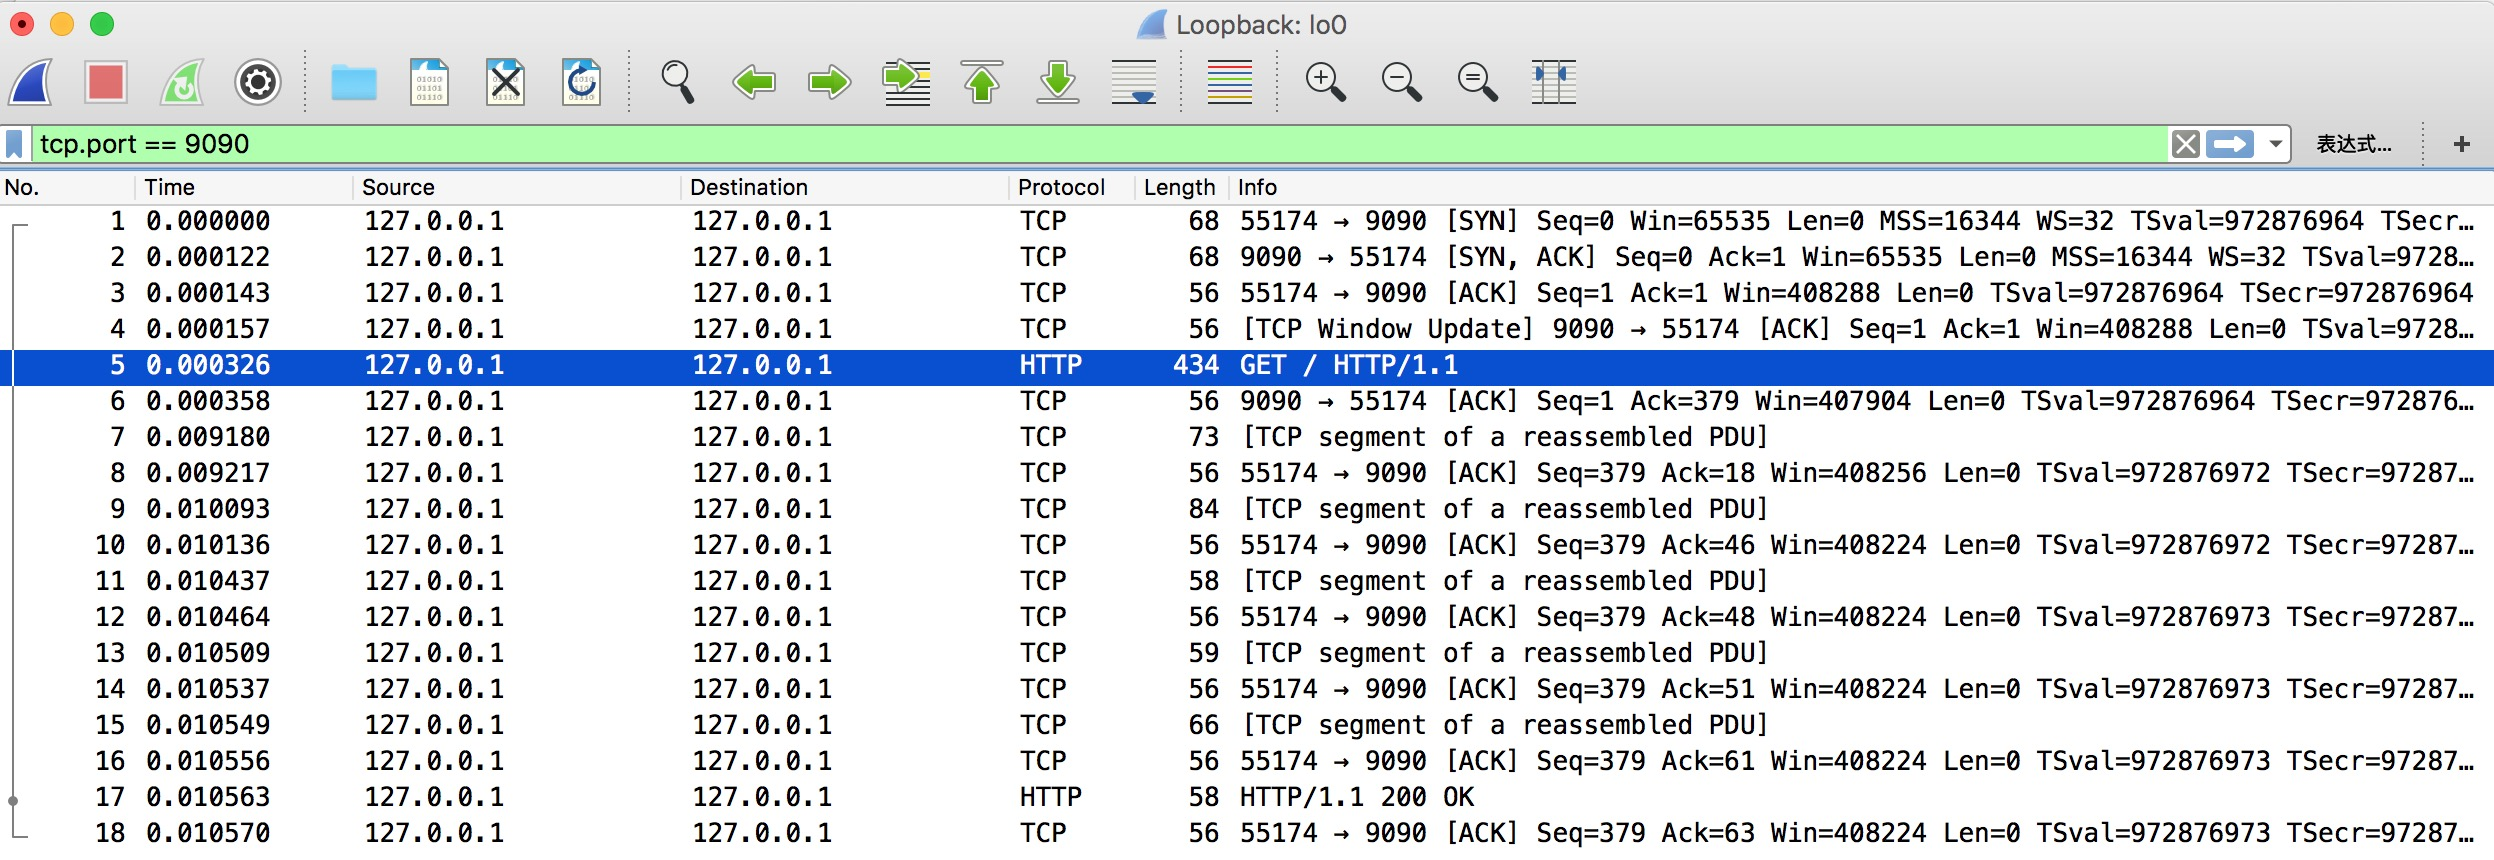
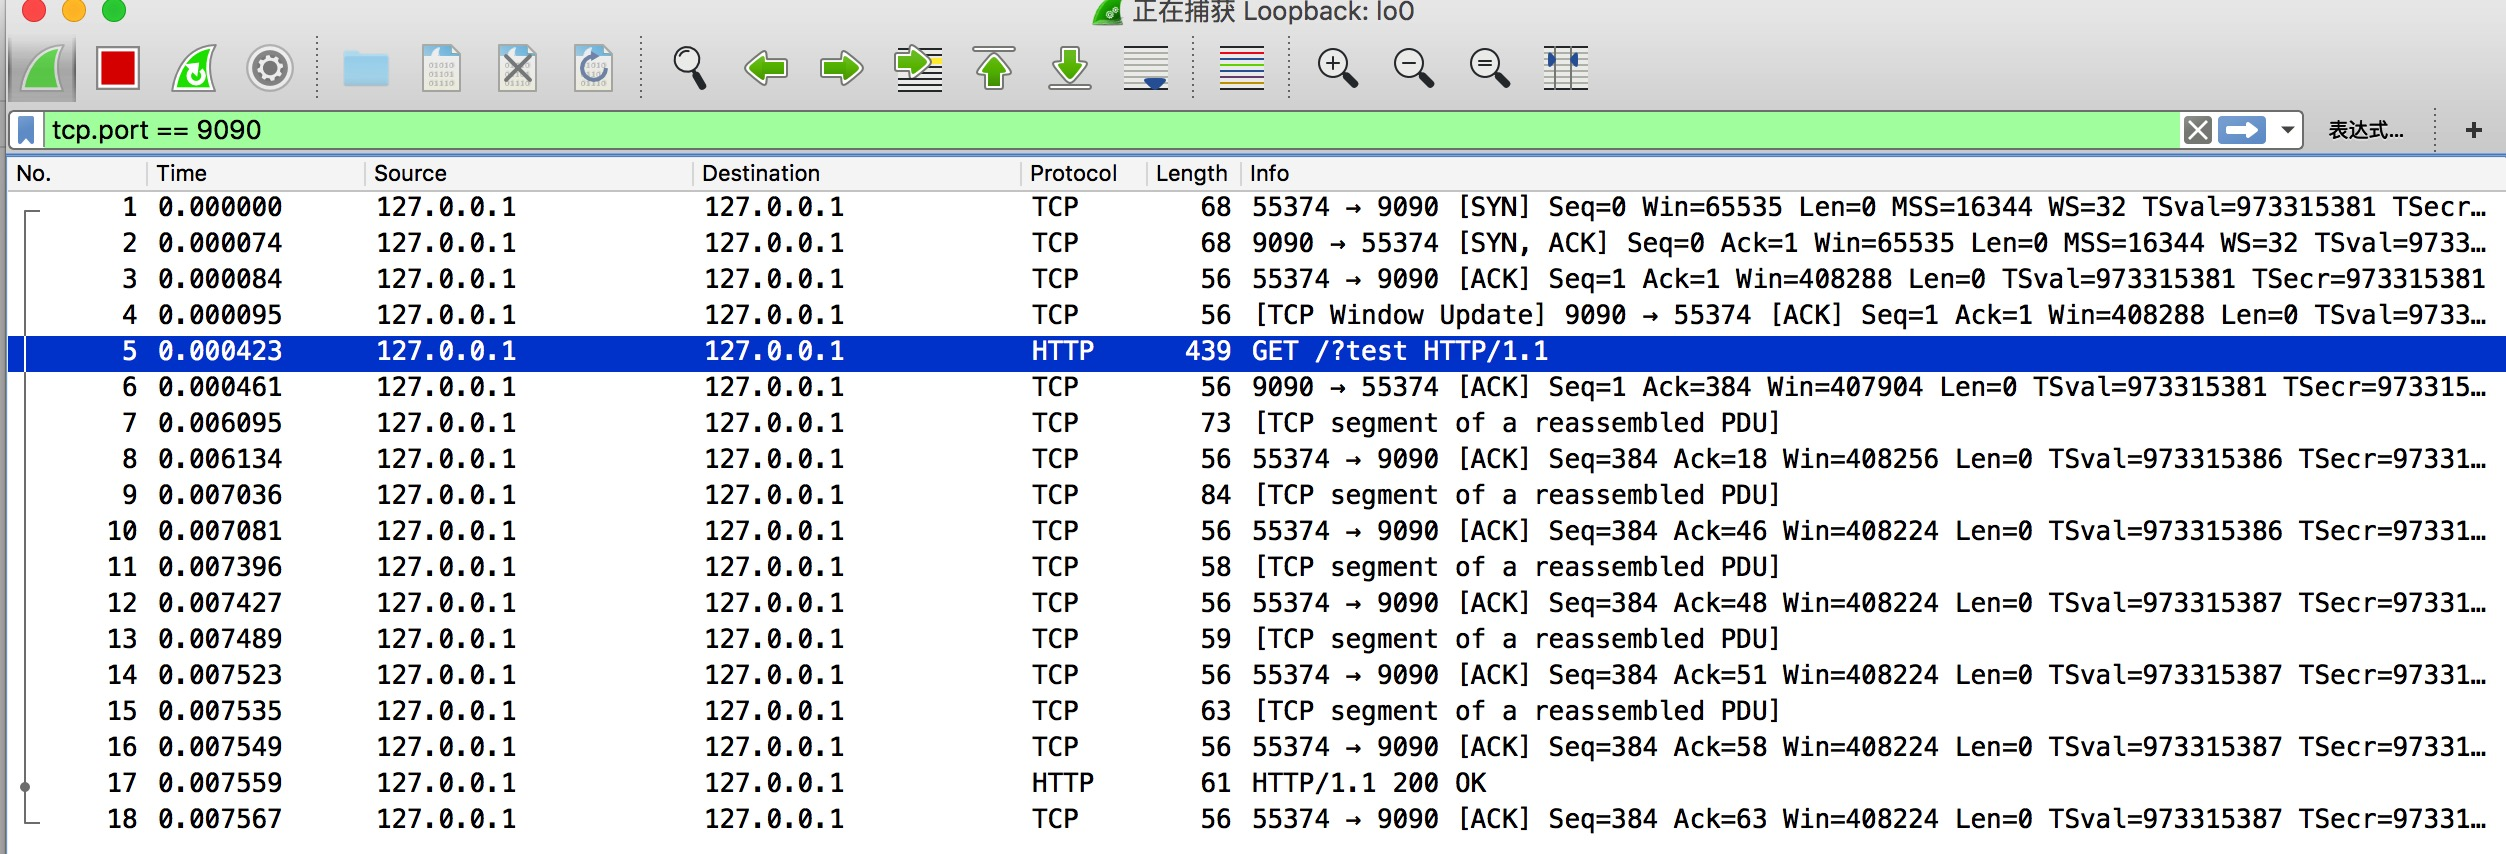
Creates assets/get-1.png
Auto commit by GitBook Editor

diff --git a/get-vs-post.md b/get-vs-post.md
@@ -55,5 +55,5 @@ require('net').createServer(function(sock) {
 
 我们先用postman发起**get**请求，wireshark得到如下记录:
 
-![](/assets/get-1.png)
 
+当前选中帧，
